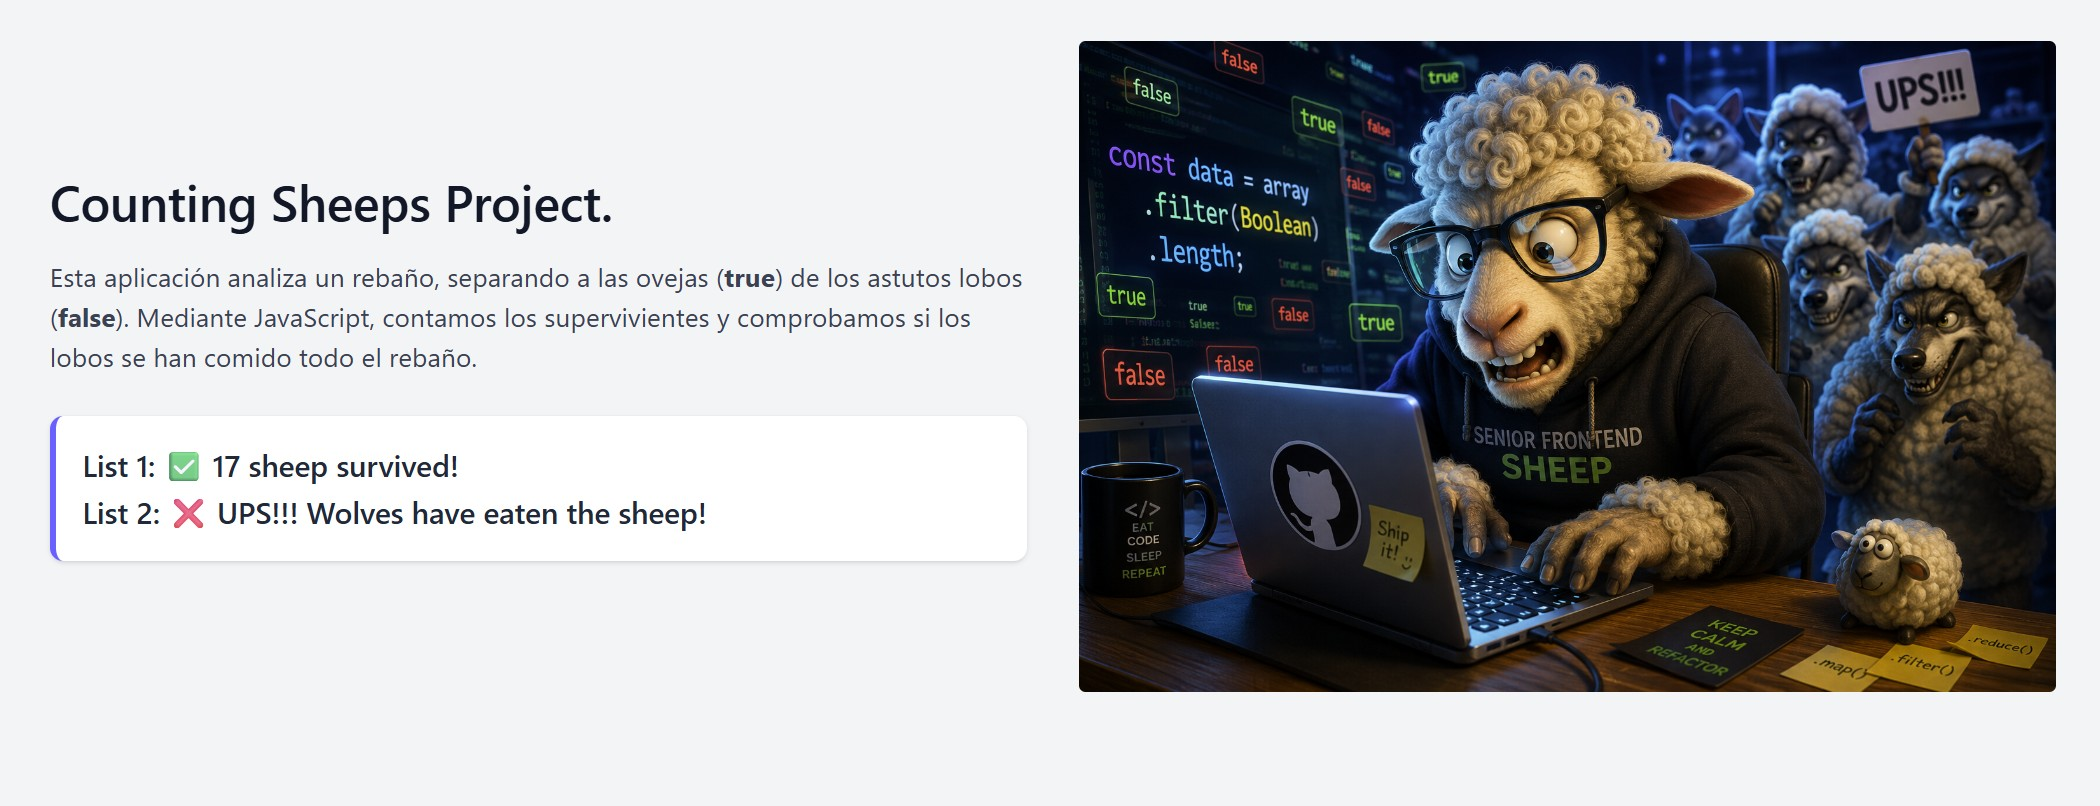
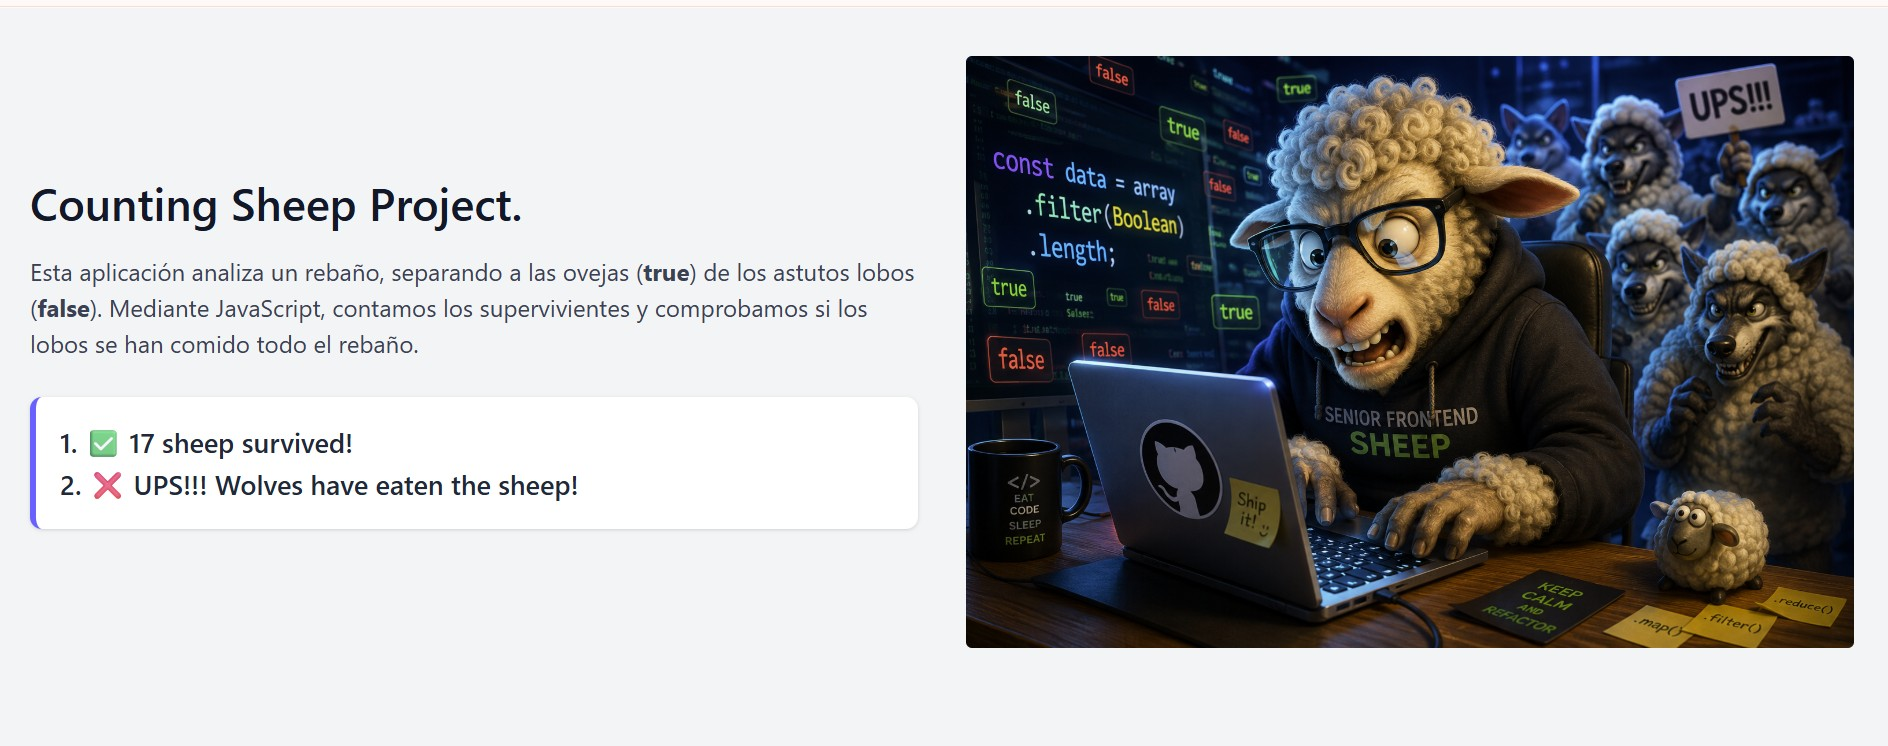
fix grammatical error

Changed region(s): [[0.0, 0.0308, 1.0, 0.8941], [0.0, 0.5241, 0.4688, 0.7091], [0.0, 0.2158, 0.3125, 0.3083]]

diff --git a/index.html b/index.html
@@ -16,7 +16,7 @@
                 <div>
                     <div class="max-w-prose md:max-w-none">
                         <h1 class="text-2xl font-semibold text-gray-900 sm:text-3xl">
-                           Counting Sheeps Project.
+                           Counting Sheep Project.
                         </h2>
 
                         <p class="mt-4 text-pretty text-gray-700">
